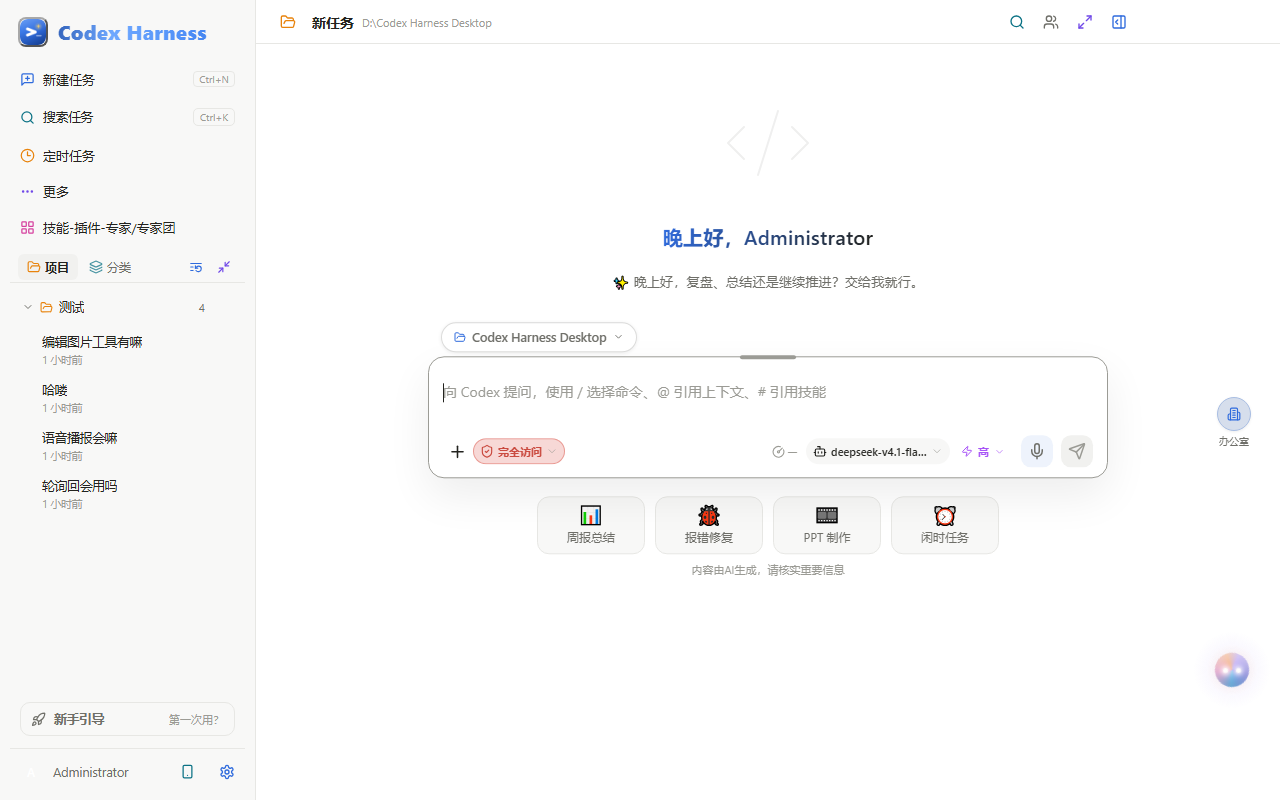
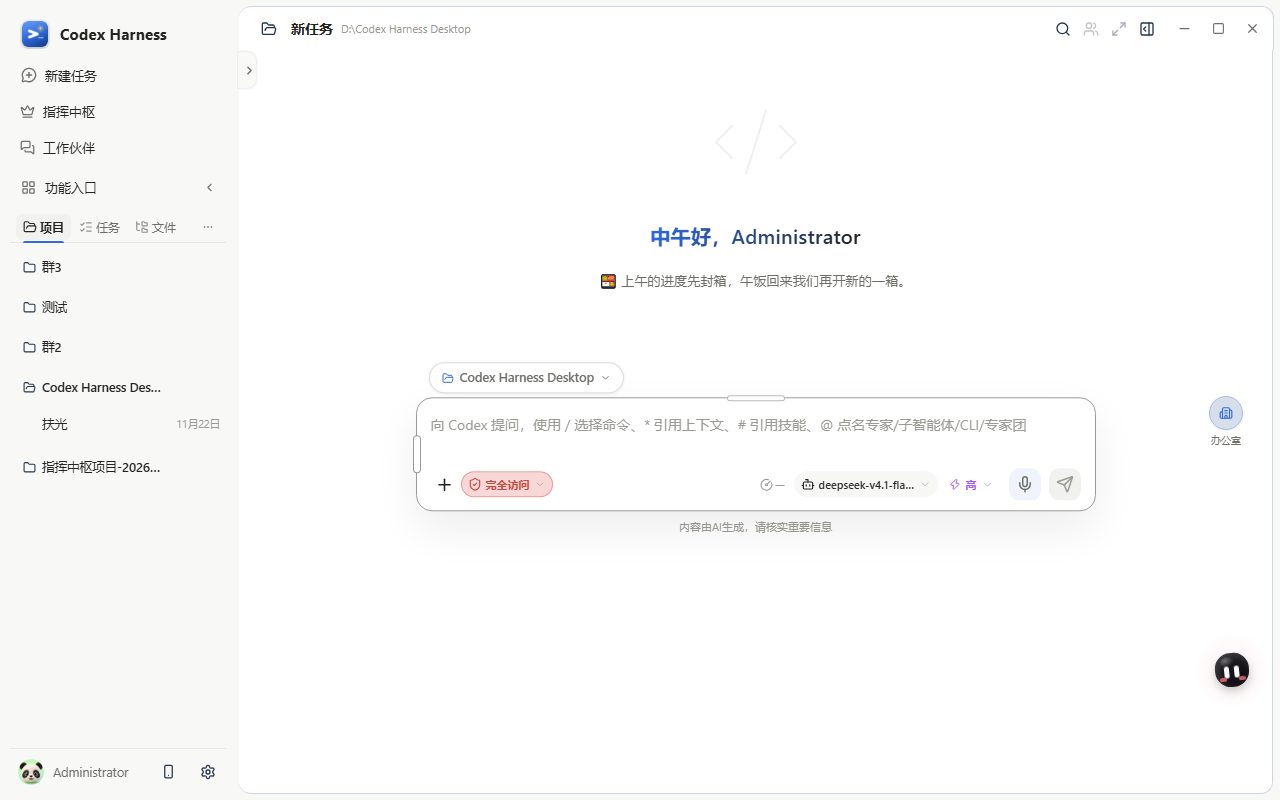
docs(readme): 仓库首页按当前版本重写 —— 删掉已下线的云版与停更的 PPcode
用户截图指出「这里面的，很老了，更新一下」。逐条处理过期项：

- 删「Codex Harness Cloud（云版）」整段（11-19 已下线，只留 GitHub 源码归档）。
- 删「定制版：PPcode」整段（11-22 已停更，冻结在 v0.1.27）。
- 主界面图换新：`docs/screenshots/main-light.png` 用项目自带脚本重截（11-27 的界面：
  新建任务 / 指挥中枢 / 工作伙伴 + 项目·任务·文件三视图 + 右侧标签条）。
- 技术栈按实际安装版本：Electron 44 / React 19 / Vite 8 / TypeScript 6（原文写 43 / 5.9）。
- 发版段版本对齐改 4 处；删掉已经失效的「clientInfo」说法（该项自 10-09 起取 app.getVersion()）。
- 随包运行时口径统一：原文一处写「仅 Node 与 VS Code CLI 随包」，与 tools 表（Python/rg/uv/jq/
  ninja/7-Zip/yt-dlp/CMake/adb/cloudflared/ponytail 均随包）自相矛盾，按实际重写。
- mac 首次打开改成 `xattr -dr com.apple.quarantine` + 「把应用拖进终端补全路径」。
- 市场数量去掉会持续过期的死数字（280+ 技能 / 55 专家 / 27 MCP / 48 插件 / 3800+ 组件）。
- 补本轮能力：无限画布（右键新建十类卡片、可拖大、可连线、模型跑工作流自动展开亮绿灯）、
  右侧浏览器式标签条与一颗图标放大覆盖、中枢会话可展开成员子会话。

验证：README 引用的 docs/TESTING.md、LICENSE、docs/screenshots/main-light.png 均存在；
守卫不读根 README（09 / 12aa / 12bs 里的 README 都指 logs/README.md 与夹具）。

diff --git a/README.md b/README.md
@@ -1,26 +1,10 @@
 # Codex Harness Desktop
 
-独立桌面工作台，把 OpenAI Codex 引擎装进一个真正的桌面应用：多会话任务管理、可视化 diff 审阅、内置自动化工具、插件/技能/连接器生态、专家团队协作，开箱即用，不必碰命令行。
+独立桌面工作台，把 OpenAI Codex 引擎装进一个真正的桌面应用：多会话任务管理、可视化 diff 审阅、无限画布与图片编辑、内置自动化工具、插件/技能/连接器生态、专家团队协作，开箱即用，不必碰命令行。
 
 <p align="center">
   <img src="docs/screenshots/main-light.png" width="820" alt="Codex Harness Desktop 主界面" />
 </p>
-
-
-## ☁ Codex Harness Cloud（云版）
-
-同一套桌面体验的**云端形态**：浏览器打开 [ppz123.asia](https://ppz123.asia) 登录，配合本机助手即可在任何设备上访问**你电脑上的**助手（会话与数据仍在本地，云端只做账号与界面分发）。
-
-- **网页版**：免安装，任意浏览器即开即用
-- **应用版客户端**：[云助手客户端下载](https://github.com/PMZPZM0/codex-harness-cloud-src/releases/latest)（Windows 安装包 + macOS 双架构），双击即用、开机常驻
-- **实时推送**：消息与事件全走 SSE 推送，非轮询
-
-## 🍴 定制版：PPcode
-
-同源代码的独立品牌定制款 **[PPcode](https://github.com/PMZPZM0/PPcode)** —— AI 工作台（Windows / mac）：多智能体调度 · 图像工坊 · 自动化。
-
-- 📦 功能介绍与安装包：<https://github.com/PMZPZM0/PPcode>（Windows 安装包 + macOS 双架构 zip）
-- 🔗 与本项目的关系：同一条产品线（引擎、界面、守卫体系一致），**独立品牌与独立发布节奏**，功能更新双向同步
 
 ## 🎯 核心能力速览
 
@@ -28,40 +12,25 @@
 |---|---|---|
 | 🗂 | **多会话并行与排队** | 分组/置顶/归档/分支/批量操作；运行中继续输入自动排队 |
 | 🎞 | **沉浸式对话体验** | 逐字平滑揭示、长会话自动折叠、AI 润色提示词、`@` 引用、图片内联粘贴 |
+| 🎨 | **无限画布** | 右键新建卡片、拖大、连线；模型跑画布工作流时右栏自动展开并亮绿灯 |
 | 🎙 | **本机离线语音通话** | 悬浮球一键通话，识别与合成全在本机，零凭据零联网 |
 | 🔑 | **OpenAI 官方订阅** | ChatGPT 设备码登录即用，多账号切换，额度实时同步 |
 | 🎬 | **本地视频导出** | HTML/CSS 动画一键出 MP4，零 ffmpeg，模型直接调用 |
 | 🖼 | **图片分层引擎** | 分层渲染/合成/调整，会话内修图与生成一体 |
 | 🔀 | **多模型与中转站** | 任意 OpenAI 兼容端点自由接入；中转站多账号一键切换 |
 | 🧩 | **技能 · 插件 · MCP 生态** | 技能/插件/MCP 三个市场：详情预览 + 一键安装直连引擎 |
-| 🖥 | **桌面与浏览器自动化** | 键鼠/截屏/OCR + Playwright 浏览器自动化，随包预装开箱即用 |
-| 🧭 | **内置浏览器与项目树** | 右侧面板边聊边浏览；项目树多标签预览、可编辑保存 |
+| 🖥 | **桌面与浏览器自动化** | 键鼠/截屏/OCR + 浏览器自动化，随包预装开箱即用 |
+| 🧭 | **右侧面板** | 浏览器式标签条：监控/变更/审阅/浏览器/文件/图片/画布/终端；一颗图标可放大覆盖对话区 |
 | 📈 | **超长上下文** | 视口外跳过渲染 + 分页懒加载，几个 G 历史也流畅 |
 | 🛡 | **权限分级与沙箱** | 只读/自动编辑/完全访问三档审批，会话中途切换即时生效 |
 
-**还有**：专家团并行调度 · 审批卡一行不占屏 · 会话切换缓存直渲 · 大 diff 行级虚拟化 · 三层记忆自动沉淀 · 微信/Telegram/飞书/钉钉/QQ Bot 远程接入 · xterm 内置终端 · 会话备份导出 · 应用内自更新 · 浅色/深色主题。
+**还有**：专家团并行调度 · 中枢会话可展开成员子会话 · 审批卡一行不占屏 · 会话切换缓存直渲 · 大 diff 行级虚拟化 · 三层记忆自动沉淀 · 微信/Telegram/飞书/钉钉/QQ Bot 远程接入 · xterm 内置终端 · 会话备份导出 · 应用内自更新 · 浅色/深色主题。
 
 ## 🖼 界面预览
 
-> 三张实机截图：主工作台 / 外观与代码高亮 / 中转站配置。
+![主工作台](docs/screenshots/main-light.png)
 
-### 主工作台
-
-![主工作台](docs/screens/01-main.png)
-
-无人打扰的空会话状态：左侧会话与项目分组、中间对话与输入框（模型、权限、麦克风都在触手可及处）、右侧变更/终端/浏览器/项目树。
-
-### 外观与代码高亮
-
-![外观与代码高亮](docs/screens/02-appearance.png)
-
-主题（白天/黑夜）· 消息字号三档 · 七套代码高亮 —— 点卡片即换，立即生效并保存在本机。
-
-### 中转站配置
-
-![中转站配置](docs/screens/03-relay.png)
-
-订阅开通与 sub2api 兼容账号管理：登录后余额与套餐一键接入，切换供应商后对话直接可用。
+无人打扰的空会话状态：左侧「新建任务 / 指挥中枢 / 工作伙伴」与项目、任务、文件三个视图；中间对话与输入框（模型、权限、语音都在触手可及处）；右侧标签条按需开页，点标签条左侧那颗图标即可把右栏放大覆盖整个对话区。
 
 ## ✨ 功能特性
 
@@ -75,26 +44,32 @@
 - **计划可编辑**：Codex 的执行计划可勾选、改文字、增删，改完发回执行
 - **评审子智能体**：用干净上下文复审 Codex 的成果，报错前自审去误报
 - **文档附件**：PDF/Word/Excel/PPT 拖进对话转成 Markdown 正文（markitdown，本机转换不上传）
-- **内置写作技能**：humanizer / no-ai-slop / i-have-adhd（MIT，可单独停用）
-- **语气自适应**：agent 心情/精力随回合结果变化，只影响说法不影响内容（可关闭）
 - **输入体验**：草稿按会话独立保存；文件/图片内联 chip；粘贴超 200 字自动转 .txt；`#` 引用技能
-- **隐私与安全**：可信根沙箱、密钥 safeStorage 加密落盘、本地服务只绑 127.0.0.1、无遥测
+- **内置写作技能**：humanizer / no-ai-slop / i-have-adhd（MIT，可单独停用）
 - **会话备份与导出**：Markdown 导出、跨设备恢复
 
-### 🎨 沉浸式对话体验
-- **组件库**：设置 →「组件库」，Uiverse 3800+ 现成组件按类目浏览、点开看代码一键复制；Codex 写前端自动查库
-- **桌面宠物**：官方 pet.json 格式浮窗宠物（内置六只，30fps 动画包），空闲/运行/等待/失败等九种姿态实时切换
-- **像素办公室**：专家团成员实时映射成虚拟办公室——工位落座、打字动画、喝水/查资料休息活动
+### 🎨 画布与创作
+- **无限画布（右栏）**：右键新建便签/生图/图片/脚本/角色/场景/分镜/镜头/音频/视频十类卡片；卡片可拖大、可连线、可复制粘贴剪切
+- **与模型协作**：模型读写画布工作流时右栏自动展开并亮绿灯，卡片随回填同步更新
+- **图片入画布**：消息、附件、文件树的图片右键「在画布中打开」，直接落成图片卡
+- **图像工坊**：会话内修图（jimp 纯本地）、生成、图层查看；**生成与编辑分属独立通道**
+- **图片分层引擎**：分层渲染 / 合成 / 局部调整（亮度、色相、模糊、遮罩等）
+- **HTML → MP4**：网页动画一键导出视频（零 ffmpeg，本地渲染）
+
+### 🖥 界面与右侧面板
+- **浏览器式标签条**：监控 / 变更 / 审阅 / 浏览器 / 文件 / 图片 / 画布 / 终端，每个标签可单独关闭，默认停在新标签页入口
+- **放大覆盖**：标签条左侧一颗图标两段 —— 左半把右栏放大覆盖整个对话区，右半缩回原宽
+- **组件库**：设置 →「组件库」，Uiverse 现成组件按类目浏览、点开看代码一键复制；Codex 写前端自动查库
+- **桌面宠物 / 像素办公室**：官方 pet.json 格式浮窗宠物（内置六只）；专家团成员实时映射成虚拟办公室工位
 - **内置浏览器**：右侧面板多标签浏览，隐身浏览走指纹内核（过反爬）
 - **流式平滑渲染**：正文/思考逐字揭示；工具调用、深度思考自动折叠成卡片
 - **会话切换秒开**：缓存直渲 + 阅读位置还原（实测 P50 20ms）
 - **提示词增强**：输入框一键 AI 润色，悬停预览、一键还原
 - **图片体验**：点击放大灯箱（滚轮缩放）、悬停小预览、复制图片、打开所在位置
 - **项目树**：多标签预览、行号常开、语法高亮、直接编辑保存、HTML 一键浏览器打开
-- **大模型文件下载更稳**：多镜像轮换 + 断点续传 + 卡死判定
 
 ### 📱 移动端远程控制
-- **手机扫码即控**：扫码后在手机上查看会话、收发消息（Cloudflare 隧道优先，回退局域网）
+- **手机扫码即控**：扫码后在手机上查看会话、收发消息（自有固定公网地址优先，回退局域网）
 - **两道安全关**：6 位配对码 + 电脑端审批；已批准设备免重复配对，可随时移除
 - **机器人同样要配对**：微信/QQ/飞书/钉钉/Telegram 首次对话先发授权码
 
@@ -108,18 +83,20 @@
 ### 🔌 能力生态
 - **OpenAI 官方订阅**：设备码登录免 API Key，多账号批量管理，额度实时同步
 - **中转站中心**：sub2api 兼容，多账号一键切换，余额/套餐实时透出
-- **技能中心**：SkillHub 市场 280+ 技能，一键安装，英文描述统一中文化
-- **插件市场**：Gitee 官方镜像（Claude Code 官方市场中国版，48 个兼容插件），名称简介全中文，一键安装
-- **专家市场 / 人格市场**：55 个专家包、16 套人格一键应用
-- **连接器（MCP）**：飞书/钉钉/腾讯文档等可视化配置 + MCP 市场 27 个服务
+- **技能中心**：SkillHub 市场按需检索安装，英文描述统一中文化
+- **插件市场**：Gitee 官方镜像（Claude Code 官方市场中国版），名称简介全中文，一键安装
+- **专家市场 / 人格市场**：专家包与人格一键应用
+- **连接器（MCP）**：飞书/钉钉/腾讯文档等可视化配置 + MCP 市场
 - **专家团队**：多角色专家团按 SOP 编排，并行阶段整组同时干活，头像轨看进度
+- **指挥中枢**：中枢会话可展开派出去的成员会话，成员消息带上级身份显示，右侧有运行反馈
 - **会话级调度**：Codex 可把子任务委派给专家/子智能体，四层防护防套娃
 
-### 🛠 自动化工具箱（开发工具页按需下载）
-- **桌面自动化**：截屏/键鼠/窗口控制/OCR（Nuphus 随包预装），视觉识图已接通
-- **浏览器自动化**：Playwright CLI + 反检测指纹浏览器（随包预装），内核按需下载
+### 🛠 自动化工具箱
+- **桌面自动化**：截屏/键鼠/窗口控制/OCR（Nuphus + agent-desktop 随包预装），视觉识图已接通
+- **浏览器自动化**：Ego Lite 外部应用为默认通道，反检测指纹内核按需下载
 - **RPA 流程自动化**：跑通的流程一键存为配方随时复现
-- **基础运行时**：Node / VS Code CLI / **Python（完整版，自带 pip + Tkinter）** / ripgrep / uv / CMake / 7-Zip / jq / Ninja / yt-dlp / adb **随包内置**；PowerShell 7 / Git / FFmpeg / Miniconda / MinGW 与两类浏览器内核按需下载（国内镜像优先，缺 Git 首启自动补装）
+- **随包内置运行时**：Node / VS Code CLI / Python（完整版，自带 pip + Tkinter）/ ripgrep / uv / CMake / 7-Zip / jq / Ninja / yt-dlp / adb / cloudflared / ponytail
+- **按需下载（>50MB 的大件）**：PowerShell 7 / Git / FFmpeg / Miniconda / MinGW 与浏览器内核，「开发工具」页一键装，国内镜像优先
 - **终端**：xterm 内置终端，会话级持久化
 
 ### ⚙ 工程化细节
@@ -128,12 +105,9 @@
 - **多模型接入**：任意 OpenAI 兼容端点；协议自动适配（Responses ↔ Chat Completions），Chat 网关直接用
 - **思考等级**：低/中/高/最高/极高五档跟模型保存；**自动档**由本地 Laya 模型 33ms 判定，手选立即覆盖
 - **供应商管理**：启用/停用状态药丸、连接自检带排查清单、模型参数内置规格表自动填
-- **应用内自更新**：GitHub Releases 单源，检查/下载/安装一体化
-
-### 🖼 图片与视频创作
-- **图像工坊**：会话内修图（jimp 纯本地）、生成、图层查看；**生成与编辑分属独立通道**
-- **图片分层引擎**：分层渲染 / 合成 / 局部调整（亮度、色相、模糊、遮罩等）
-- **HTML → MP4**：网页动画一键导出视频（零 ffmpeg，本地渲染）
+- **应用内自更新**：GitHub Releases 单源，完整包，点胶囊才下载与安装（启动不自动检查）
+- **大文件下载更稳**：多镜像轮换 + 断点续传 + 卡死判定
+- **隐私与安全**：密钥 safeStorage 加密落盘、本地服务只绑 127.0.0.1、无遥测
 
 ## 📦 下载安装
 
@@ -152,18 +126,18 @@
 1. **在「下载」里解压**（别在「应用程序」里解压，会报错误 640）；报 640 就用终端：`cd ~/Downloads && ditto -x -k "<zip 文件名>" .`
 2. 把 App **拖进「应用程序」**（别在「下载」里直接双击运行）
 3. **右键 → 打开**（不要直接双击）
-4. 仍提示「已损坏」时，终端执行（App 图标拖进终端自动填路径）：
+4. 仍提示「已损坏」时，终端执行下面这条命令 —— **把应用图标拖进终端**，路径会自动补全（不用手打）：
 
 ```bash
-xattr -cr "/Applications/Codex Harness Desktop.app"
+xattr -dr com.apple.quarantine "/Applications/Codex Harness Desktop.app"
 ```
 
-> 基础运行时不再整体内置：仅 Node 与 VS Code CLI 随包，其余在「开发工具」页按需下载（国内镜像优先、失败回落官方源）。缺必需工具时首启自动弹「环境体检」一键补齐。
+> 基础运行时不再整体内置：小体积工具随包，大件（>50MB）在「开发工具」页按需下载（国内镜像优先、失败回落官方源）。缺必需工具时首启自动弹「环境体检」一键补齐。
 
 ## 🛠 从源码构建
 
 ```bash
-git clone https://github.com/<YOUR_ACCOUNT>/codex-harness-desktop.git
+git clone https://github.com/PMZPZM0/codex-harness-desktop.git
 cd codex-harness-desktop
 npm install
 npm run dev        # 开发模式
@@ -177,25 +151,25 @@ npm run dist       # Windows 安装包（NSIS）
 发布渠道只有 GitHub Releases，构建与发布全部在 CI（`.github/workflows/release.yml`）：
 
 ```bash
-# ① 版本对齐：package.json / package-lock.json / electron/codex-server.ts clientInfo
-# ② 写更新说明：docs/releases/v<版本>.md（应用内更新弹窗展示）
-npm run check                          # ③ 离线预检全绿
-git push origin HEAD:refs/heads/main   # ④ 推代码
-git push origin v<版本>                # ⑤ 推 tag → 触发三端构建并发布
+# ① 版本对齐 4 处：package.json / package-lock.json（根 + packages[""]）
+#    / electron/whats-new-notes.ts 最新条目 / docs/releases/v<版本>.md
+npm run check                          # ② 离线预检全绿
+git push origin HEAD:refs/heads/main   # ③ 推代码
+git push origin v<版本>                # ④ 推 tag → 触发 Windows + macOS 构建并发布
 ```
 
-发版前必做 **mac 适配审计**：`node scripts/mac-audit.mjs <上一版 tag>` 扫描新增行的平台敏感模式，逐条判读后把结论写进发版说明的 macOS 段。资产命名是更新器契约（mac 包必须含 `mac`+`.zip`+架构名），名字错了用户端静默显示「已是最新」。
+发版前必做两件事：**mac 适配审计**（`node scripts/mac-audit.mjs <上一版 tag>`，逐条判读新增行的平台敏感模式，结论写进发版说明的 macOS 段）；**组件版本体检**（引擎、随包工具、依赖，只升同大版本，跨大版本单独一轮）。资产命名是更新器契约（mac 包必须含 `mac`+`.zip`+架构名），名字错了用户端静默显示「已是最新」。
 
 ## 🧪 验证与测试
 
 本项目硬性要求：**任何源码改动必须以自动验收全绿为完成标准**。
 
 ```bash
-npm run verify   # = npm run check（离线预检）+ npm run e2e（拉起应用跑验收项）
+npm run verify   # = npm run check（离线预检）+ npm run accept（拉起应用跑验收项）
 ```
 
 - `npm run check`：构建 + IPC 桥一致性 + 纯函数行为断言，毫秒级不需要图形界面
-- `npm run e2e`：CDP 驱动真实应用跑验收，默认只跑最新一轮，失败自动截图（`.e2e-artifacts/shots/`）
+- `npm run accept`：驱动真实应用跑验收，默认只跑最新一轮，失败自动截图（`.e2e-artifacts/shots/`）
 - 改了哪个模块就给 `scripts/guards/` 对应域文件加可保留的检查项；真链路证据每轮现写、跑完即删
 - 看全新用户首启：`npm run preview:fresh`（前台运行，不碰真实配置）
 
@@ -203,7 +177,8 @@ npm run verify   # = npm run check（离线预检）+ npm run e2e（拉起应用
 
 ## 🏗 技术栈
 
-- **Electron 43** + **React 19** + **Vite 8** + **TypeScript 5.9**
+- **Electron 44** + **React 19** + **Vite 8** + **TypeScript 6**
+- 画布：`@xyflow/react` 12
 - 引擎通信：stdio JSON-RPC 对接 `@openai/codex` app-server
 - 终端：`@lydell/node-pty` + `@xterm/xterm`
 
